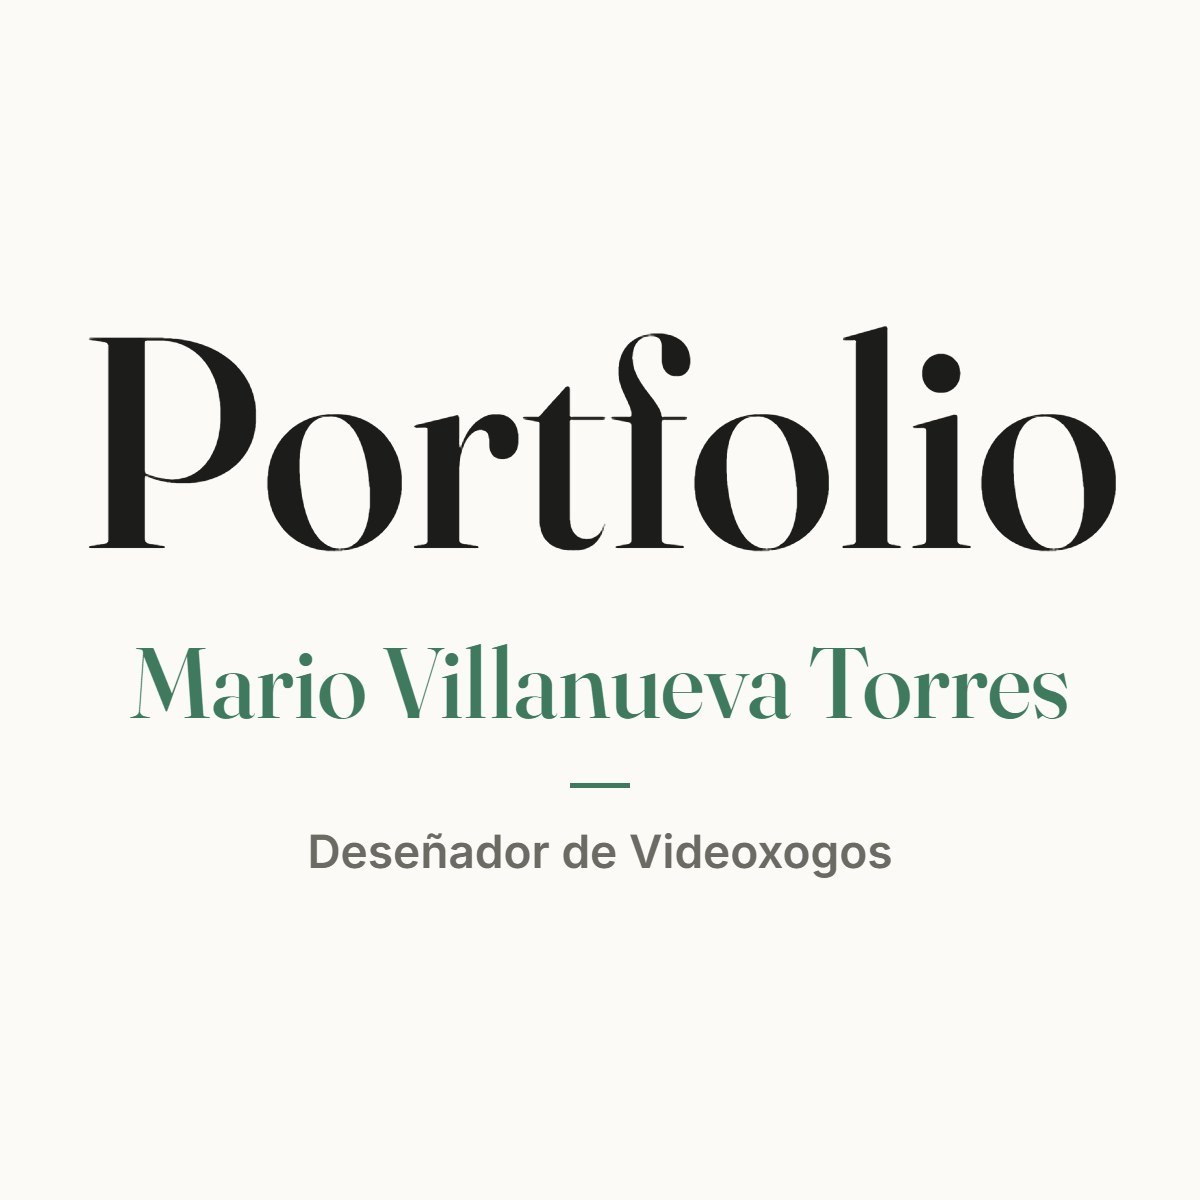
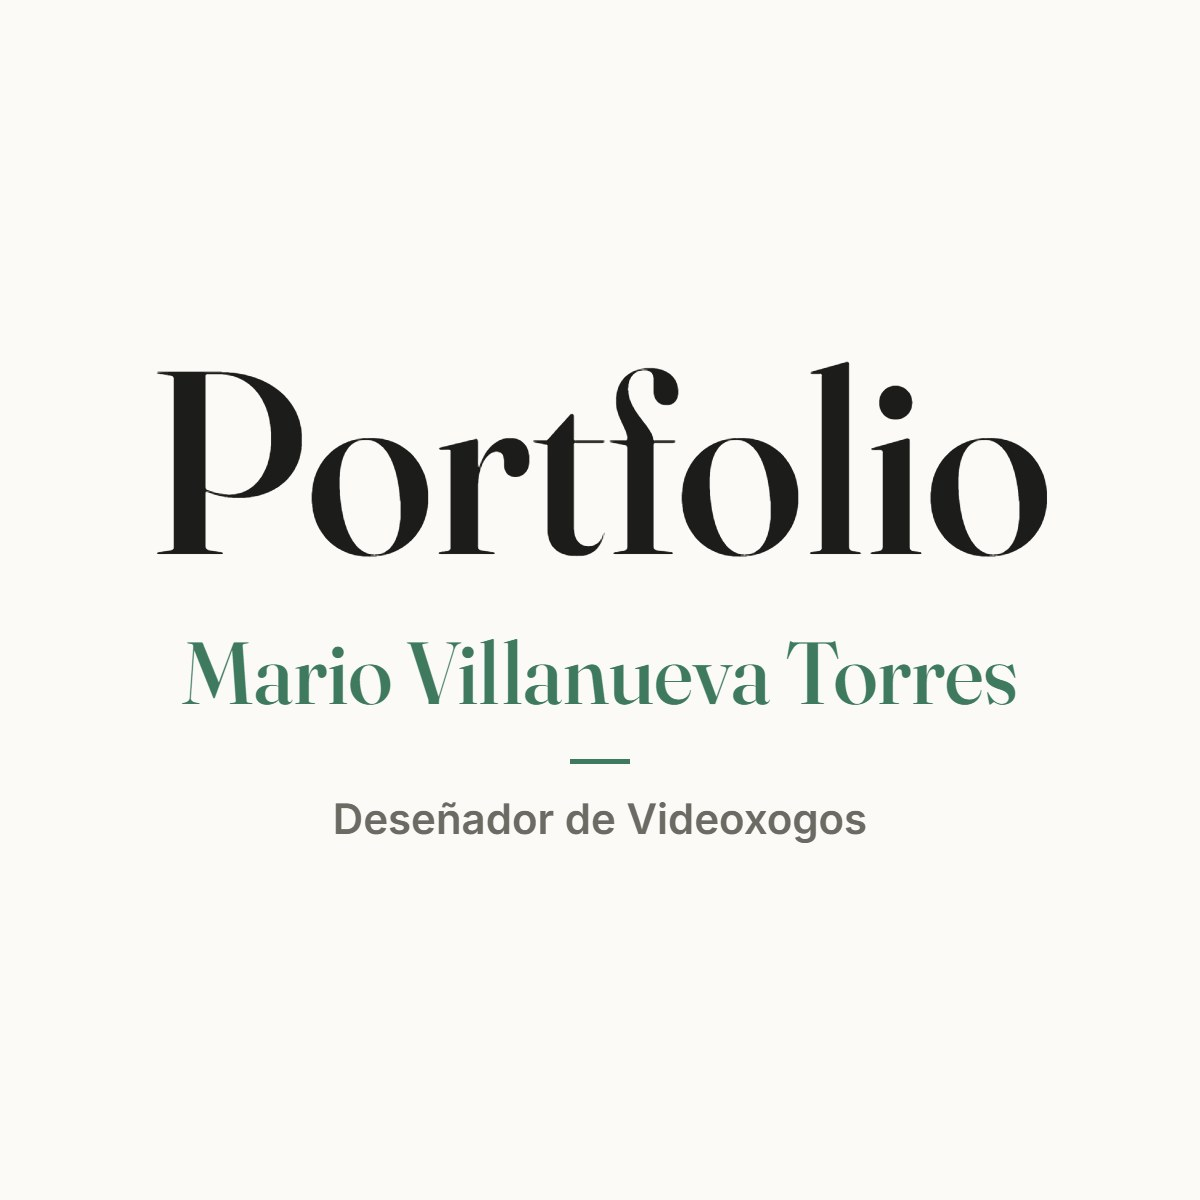
Miniaturas con el texto algo más pequeño para que no se recorte por los lados

Changed region(s): [[0.0617, 0.2775, 0.9558, 0.4625], [0.1233, 0.5242, 0.8942, 0.74]]

diff --git a/scripts/og/index.html b/scripts/og/index.html
@@ -16,12 +16,12 @@
     const x = c.getContext('2d');
     x.fillStyle = BG; x.fillRect(0, 0, 1200, 1200);
     x.textAlign = 'center'; x.textBaseline = 'alphabetic';
-    const top = role ? 548 : 623;
-    x.fillStyle = INK; x.font = '500 300px Fraunces'; x.fillText('Portfolio', 600, top);
-    x.fillStyle = GREEN; x.font = '500 100px Fraunces'; x.fillText('Mario Villanueva Torres', 600, top + 170);
+    const top = role ? 554 : 618;
+    x.fillStyle = INK; x.font = '500 260px Fraunces'; x.fillText('Portfolio', 600, top);
+    x.fillStyle = GREEN; x.font = '500 88px Fraunces'; x.fillText('Mario Villanueva Torres', 600, top + 150);
     if (role) {
-      x.fillRect(570, top + 235, 60, 5);
-      x.fillStyle = MUTED; x.font = '600 46px Inter'; x.fillText(role, 600, top + 320);
+      x.fillRect(570, top + 205, 60, 5);
+      x.fillStyle = MUTED; x.font = '600 42px Inter'; x.fillText(role, 600, top + 280);
     }
     return c.toDataURL('image/png');
   }
